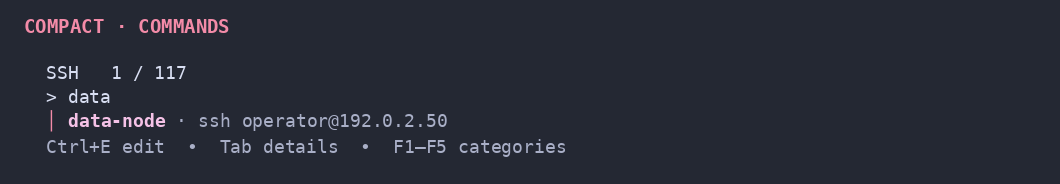
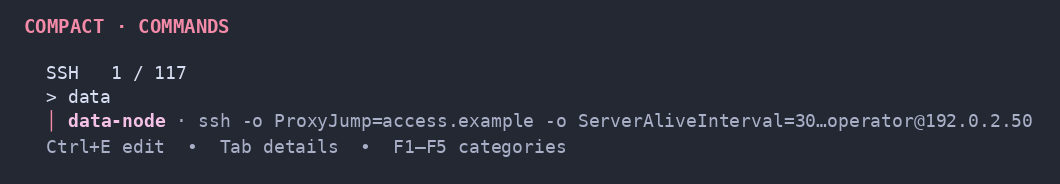
fix: preserve SSH target in narrow rows

Changed region(s): [[0.2179, 0.625, 0.9962, 0.7065]]

diff --git a/internal/ui/picker.go b/internal/ui/picker.go
@@ -13,6 +13,7 @@ import (
 	tea "github.com/charmbracelet/bubbletea"
 	"github.com/charmbracelet/lipgloss"
 	"github.com/charmbracelet/x/ansi"
+	"github.com/rivo/uniseg"
 )
 
 type PickerModel struct {
@@ -818,6 +819,57 @@ func truncateRunes(value string, limit int) string {
 	return ansi.Truncate(value, limit, "…")
 }
 
+func truncateMiddleRunes(value string, limit int) string {
+	if limit <= 0 {
+		return ""
+	}
+	if ansi.StringWidth(value) <= limit {
+		return value
+	}
+	if limit == 1 {
+		return "…"
+	}
+
+	const minPrefix = 8
+	suffixWidth := (limit - 1) / 3
+	if split := strings.LastIndex(value, " "); split >= 0 {
+		targetWidth := ansi.StringWidth(strings.TrimSpace(value[split+1:]))
+		if targetWidth > 0 && targetWidth <= limit-1-minPrefix {
+			suffixWidth = targetWidth
+		}
+	}
+	if suffixWidth < 1 {
+		suffixWidth = 1
+	}
+	prefixWidth := limit - 1 - suffixWidth
+	return ansi.Truncate(value, prefixWidth, "") + "…" + truncateLeftWidth(value, suffixWidth)
+}
+
+func truncateLeftWidth(value string, limit int) string {
+	if limit <= 0 {
+		return ""
+	}
+	if ansi.StringWidth(value) <= limit {
+		return value
+	}
+	graphemes := uniseg.NewGraphemes(value)
+	clusters := make([]string, 0, utf8.RuneCountInString(value))
+	for graphemes.Next() {
+		clusters = append(clusters, graphemes.Str())
+	}
+	width := 0
+	start := len(clusters)
+	for start > 0 {
+		clusterWidth := ansi.StringWidth(clusters[start-1])
+		if width+clusterWidth > limit {
+			break
+		}
+		start--
+		width += clusterWidth
+	}
+	return strings.Join(clusters[start:], "")
+}
+
 func padRight(value string, width int) string {
 	length := utf8.RuneCountInString(value)
 	if length >= width {
@@ -957,7 +1009,7 @@ func (m PickerModel) renderMatchLabelLine(match notes.Match, entry notes.Entry, 
 		prefix = m.theme.SelectedMark + " "
 	}
 	rowWidth := maxInt(12, width)
-	contentWidth := maxInt(8, rowWidth-utf8.RuneCountInString(prefix))
+	contentWidth := maxInt(8, rowWidth-ansi.StringWidth(prefix))
 	labelText := strings.Join(strings.Fields(strings.TrimSpace(match.Label)), " ")
 
 	detailText := match.Detail
@@ -993,7 +1045,7 @@ func (m PickerModel) renderMatchLabelLine(match notes.Match, entry notes.Entry, 
 	if secondary == "" || combined == primary {
 		matchStyle := primaryStyle.Foreground(lipgloss.Color(m.theme.MatchFG)).Bold(true)
 		rendered := primaryStyle.Render(prefix) + renderFuzzyText(combined, query, primaryStyle, matchStyle)
-		padding := rowWidth - utf8.RuneCountInString(prefix+combined)
+		padding := rowWidth - ansi.StringWidth(prefix+combined)
 		if padding > 0 {
 			rendered += primaryStyle.Render(strings.Repeat(" ", padding))
 		}
@@ -1007,7 +1059,7 @@ func (m PickerModel) renderMatchLabelLine(match notes.Match, entry notes.Entry, 
 	}
 	first := string(combinedRunes[:split])
 	second := string(combinedRunes[split:])
-	visible := utf8.RuneCountInString(prefix+first) + utf8.RuneCountInString(second)
+	visible := ansi.StringWidth(prefix + first + second)
 	if visible < rowWidth {
 		second += strings.Repeat(" ", rowWidth-visible)
 	}
@@ -1087,8 +1139,8 @@ func compactResultLine(primary, secondary string, width int) string {
 	}
 	maxSecondaryWidth := availableSecondaryWidth
 
-	secondary = truncateRunes(secondary, maxSecondaryWidth)
-	secondaryWidth := utf8.RuneCountInString(secondary)
+	secondary = truncateMiddleRunes(secondary, maxSecondaryWidth)
+	secondaryWidth := ansi.StringWidth(secondary)
 	if secondaryWidth == 0 {
 		return truncateRunes(primary, width)
 	}
@@ -1119,8 +1171,8 @@ func compactResultSplit(primary, secondary string, width int) int {
 	}
 	maxSecondaryWidth := availableSecondaryWidth
 
-	secondary = truncateRunes(secondary, maxSecondaryWidth)
-	secondaryWidth := utf8.RuneCountInString(secondary)
+	secondary = truncateMiddleRunes(secondary, maxSecondaryWidth)
+	secondaryWidth := ansi.StringWidth(secondary)
 	if secondaryWidth == 0 {
 		return utf8.RuneCountInString(truncateRunes(primary, width))
 	}

diff --git a/internal/ui/picker_test.go b/internal/ui/picker_test.go
@@ -9,6 +9,7 @@ import (
 	"github.com/charmbracelet/bubbles/cursor"
 	tea "github.com/charmbracelet/bubbletea"
 	"github.com/charmbracelet/lipgloss"
+	"github.com/charmbracelet/x/ansi"
 	"github.com/muesli/termenv"
 )
 
@@ -79,6 +80,49 @@ func TestWideResultUsesAvailableSpaceForFullCommand(t *testing.T) {
 	got := compactResultLine("gateway", command, 140)
 	if !strings.Contains(got, command) || strings.Contains(got, "…") {
 		t.Fatalf("wide result truncated the full command: %q", got)
+	}
+}
+
+func TestNarrowResultKeepsCommandStartAndTarget(t *testing.T) {
+	command := "ssh -o HostKeyAlgorithms=+ssh-rsa -o PubkeyAcceptedAlgorithms=+ssh-rsa root@192.0.2.10"
+	got := compactResultLine("legacy-router", command, 64)
+	if !strings.Contains(got, "ssh -o") || !strings.Contains(got, "root@192.0.2.10") || !strings.Contains(got, "…") {
+		t.Fatalf("middle truncation did not preserve command start and target: %q", got)
+	}
+	if utf8.RuneCountInString(got) > 64 {
+		t.Fatalf("result width = %d, want <= 64: %q", utf8.RuneCountInString(got), got)
+	}
+}
+
+func TestMiddleTruncationRespectsTerminalWidthForWideRunes(t *testing.T) {
+	command := "ssh " + strings.Repeat("界", 30) + " operator@192.0.2.10"
+	got := compactResultLine("東京-router", command, 64)
+	if width := ansi.StringWidth(got); width > 64 {
+		t.Fatalf("terminal width = %d, want <= 64: %q", width, got)
+	}
+	if !strings.Contains(got, "operator@192.0.2.10") {
+		t.Fatalf("middle truncation lost target: %q", got)
+	}
+}
+
+func TestRenderedAddressRowRespectsTerminalWidthForWideRunes(t *testing.T) {
+	theme := DefaultTheme()
+	entry := notes.Entry{Desc: "東京-router", Command: "ssh " + strings.Repeat("界", 30) + " operator@192.0.2.10"}
+	match := notes.Match{Entry: entry, Label: entry.Desc, Detail: entry.Command}
+	m := PickerModel{options: Options{ShowAddress: true}, theme: theme}
+	style := lipgloss.NewStyle()
+	got := m.renderMatchLabelLine(match, entry, 64, false, style, style, style)
+	if width := ansi.StringWidth(got); width > 64 {
+		t.Fatalf("rendered terminal width = %d, want <= 64: %q", width, got)
+	}
+}
+
+func TestTruncateLeftWidthPreservesGraphemeClusters(t *testing.T) {
+	if got := truncateLeftWidth("prefix👩💻", 2); got != "👩💻" {
+		t.Fatalf("ZWJ emoji was split: %q", got)
+	}
+	if got := truncateLeftWidth("prefix🇺🇸", 1); got != "" {
+		t.Fatalf("flag grapheme was split: %q", got)
 	}
 }
 

diff --git a/docs/screenshots/generate.py b/docs/screenshots/generate.py
@@ -61,7 +61,7 @@ commands = [
 
 save("compact-top.png", (1060, 264), "COMPACT · TOP", "COMMANDS   4 / 117", "status", commands, selected=0)
 save("compact-bottom.png", (1060, 264), "COMPACT · BOTTOM", "COMMANDS   4 / 117", "status", commands, selected=0, bottom=True)
-save("compact-top-address.png", (1060, 184), "COMPACT · COMMANDS", "SSH   1 / 117", "data", [("data-node", "ssh operator@192.0.2.50")], selected=0)
+save("compact-top-address.png", (1060, 184), "COMPACT · COMMANDS", "SSH   1 / 117", "data", [("data-node", "ssh -o ProxyJump=access.example -o ServerAliveInterval=30…operator@192.0.2.50")], selected=0)
 save("full-screen.png", (1060, 624), "FULL-SCREEN", "SSH   6 / 117", "", [
     ("server-console", "ssh admin@192.0.2.60"),
     ("web [tunnel]", "ssh -o 'LocalForward=8443 198.51.100.20:443' ops@192.0.2.30"),

diff --git a/internal/app/app_test.go b/internal/app/app_test.go
@@ -52,8 +52,8 @@ func TestVersionReportsCurrentRelease(t *testing.T) {
 	if err := Run([]string{"version"}, strings.NewReader(""), &stdout, &stderr); err != nil {
 		t.Fatal(err)
 	}
-	if got := strings.TrimSpace(stdout.String()); got != "f 0.9.6" {
-		t.Fatalf("version = %q, want %q", got, "f 0.9.6")
+	if got := strings.TrimSpace(stdout.String()); got != "f 0.9.7" {
+		t.Fatalf("version = %q, want %q", got, "f 0.9.7")
 	}
 }
 

diff --git a/internal/app/app.go b/internal/app/app.go
@@ -22,7 +22,7 @@ import (
 )
 
 var (
-	version     = "0.9.6"
+	version     = "0.9.7"
 	buildCommit = "unknown"
 )
 

diff --git a/AGENTS.md b/AGENTS.md
@@ -30,7 +30,7 @@ User edit action must write back to `~/.ssh/config.d/f_hosts/f.conf`, not a hidd
 
 - UI is Bubble Tea/Bubbles/Lipgloss.
 - `ui_mode: compact | full-screen` is persisted in `~/.config/f/config.yaml`; `f config ui compact|full-screen` changes it.
-- `show_address: true | false` is persisted in the same file; `f config address on|off` toggles a muted inline `name · user@host:port` result.
+- `show_address: true | false` is the compatibility name persisted in the same file; `f config address on|off` toggles an inline `name · <composed command>` result.
 - `f config` and `f config show` print the current UI settings, exact config file, SSH inventory paths, and available setters. Every setter prints the persisted YAML key and config path; `f config height N` sets `picker_height` with a minimum of 6.
 - `picker_height` controls compact-mode height; full-screen always uses the terminal height.
 - Legacy `light` migrates to `compact`; legacy `full` migrates to `full-screen`.
@@ -53,14 +53,14 @@ Keys:
 Enter        run selected command
 Tab          open/close selected entry details
 Ctrl+Y       print command only
-e            edit selected SSH config block
+Ctrl+E       edit the complete source SSH config at the selected line
 Ctrl+N       add custom host
 Esc/Ctrl+C   quit
 ```
 
 The `Tab` view shows the selected entry name, address, kind/mode, action description, complete multiline command, and source location. Long details scroll with `Up`/`Down` or `Ctrl+K`/`Ctrl+J`; `q` or `Tab` returns to the unchanged result list, `Esc` has no details action, and `Enter` still runs the entry.
 
-`e` currently exits TUI and opens `$EDITOR`/`nano`. This was intentional: SSH config blocks are multiline and editor-based editing is safer than a hurried inline modal. A later Bubble Tea popup may reuse the same read/write logic.
+`Ctrl+E` exits TUI and opens the complete `SourcePath` in `$EDITOR`/`nano` at `SourceLine`, so the operator sees the full inventory and surrounding entries. Validate the edited source with `ssh -G -F`; restore the original bytes on failure. Do not reintroduce a generated temporary one-block editor.
 
 ## Execution model
 
@@ -103,23 +103,7 @@ Entries retain internal classification for display and preview metadata, but cla
 - `RemoteCommand` -> commands;
 - `ProxyJump`, `ProxyCommand` -> jumps.
 
-Expanded command generation should include important directives:
-
-- `-p` for non-default port;
-- `-J` for `ProxyJump`;
-- `-L` / `-R` / `-D` for forwards;
-- `-i` for identity file when explicitly present;
-- selected `-o` options such as legacy algorithms and known_hosts behavior;
-- remote command as trailing command.
-
-Long commands should render multiline with backslashes. Group flag/value pairs together, for example:
-
-```bash
-ssh \
-  -J sergeyb@100.126.127.82 \
-  -L 8443 10.117.100.10:443 \
-  root@192.168.11.10
-```
+Expanded command generation must preserve every directive in the selected concrete `Host` block. Render `HostName`/`User` as the target and every other directive in source order as shell-safe `-o Key=Value`. Execution still uses the alias. When a composed command does not fit on one result row, truncate its middle with `…` while preserving both the command prefix and final target; the complete command remains available in `Tab` details.
 
 ## Host storage and sync
 

diff --git a/README.ru.md b/README.ru.md
@@ -11,7 +11,7 @@
 - небольшой цветной badge активной категории и счётчик;
 - строка запроса без заливки фона и инверсного блочного курсора, чтобы на прозрачном фоне терминала не появлялось чёрное пятно;
 - счётчик совпадений;
-- одноcтрочный список с вычисленной командой через интерпункт: `name · ssh user@host`; все директивы выбранного конкретного блока `Host` отображаются в безопасной для OpenSSH форме `-o Key=Value`, а `HostName` и `User` образуют target;
+- одноcтрочный список с вычисленной командой через интерпункт: `name · ssh user@host`; все директивы выбранного конкретного блока `Host` отображаются в безопасной для OpenSSH форме `-o Key=Value`, а `HostName` и `User` образуют target; длинная команда сокращается по центру, поэтому начало команды и конечный target остаются видны, а полная команда доступна в `Tab` details;
 - цветное выделение совпавших символов;
 - тонкий цветной маркер выбранной строки;
 - подробный просмотр по `Tab` с полной командой, адресом, режимом, описанием и исходным файлом;

diff --git a/README.md b/README.md
@@ -11,7 +11,7 @@ Both sizes use a flat interface without an outer frame or background container. 
 - small colored active-category badge and counter;
 - query line without a painted background or reverse-video block cursor, so transparent terminal backgrounds stay clean;
 - match counter;
-- single-line results with the composed command after an interpunct: `name · ssh user@host`; every directive from the selected concrete `Host` block is represented in OpenSSH-safe form as `-o Key=Value`, while `HostName` and `User` form the target;
+- single-line results with the composed command after an interpunct: `name · ssh user@host`; every directive from the selected concrete `Host` block is represented in OpenSSH-safe form as `-o Key=Value`, while `HostName` and `User` form the target; long commands are shortened in the middle so the command prefix and final target remain visible, with the complete command available in `Tab` details;
 - colored fuzzy-match characters;
 - slim colored marker for the selected row;
 - `Tab` detail view with the complete command, address, mode, description, and source location;
